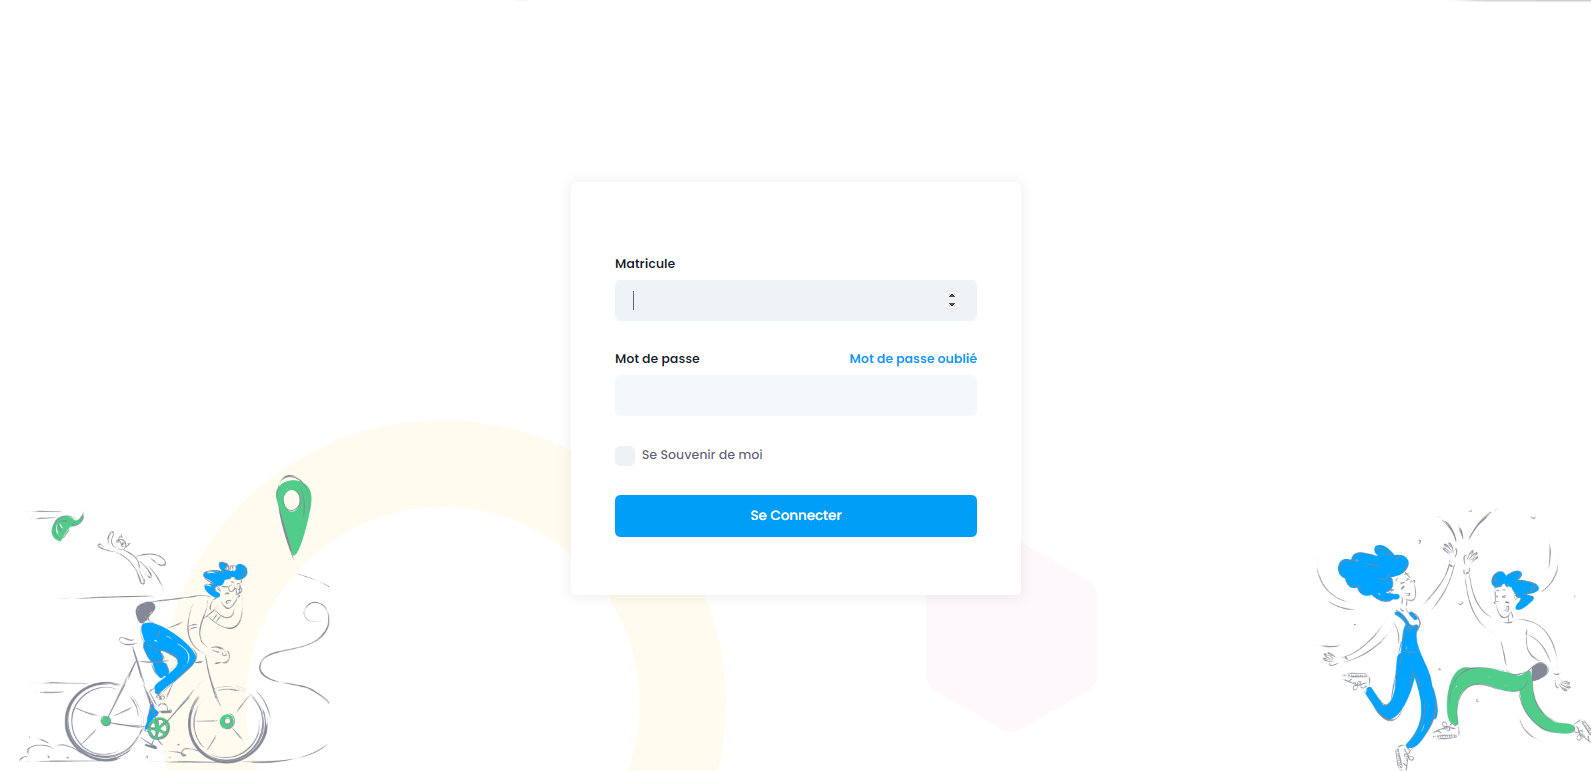
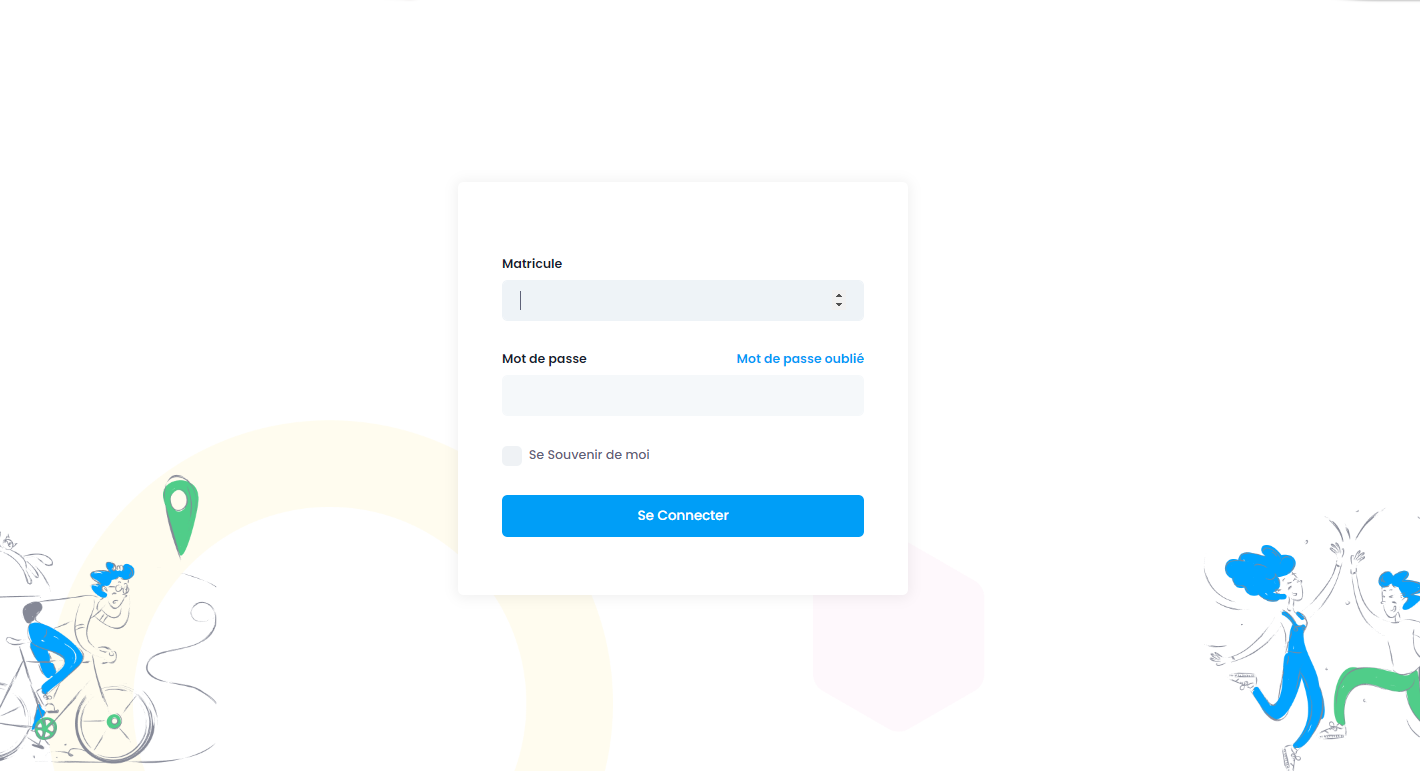
git-page

diff --git a/index.html b/index.html
@@ -552,7 +552,7 @@
 					<div class="project img shadow ftco-animate d-flex justify-content-center align-items-center" style="background-image: url(images/erp-12.PNG);">
 						<div class="overlay"></div>
 						<div class="text text-center p-4">
-							<h3 style="color: white;">ERP + Gestion de stcok</h3>
+							<h3 style="color: white;">ERP + Achat + Stcok + QRcode</h3>
 						</div>
 					</div>
 				</div>

diff --git a/css/style.css b/css/style.css
@@ -9294,10 +9294,9 @@ textarea.form-control {
 .img,
 .blog-img,
 .user-img {
-  background-size: contain;
+  background-size: cover;
   background-repeat: no-repeat;
-  background-position: center center;
-  width: 100%
+  width: 100%;
  }
  
 .image-popup {
